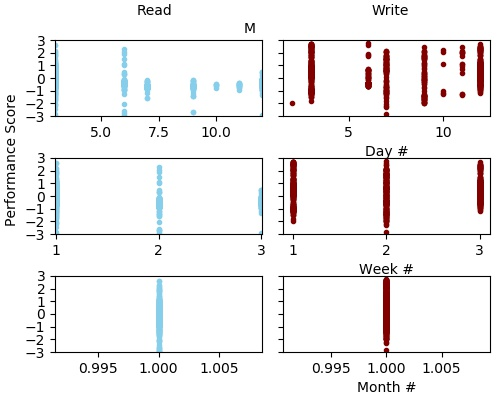
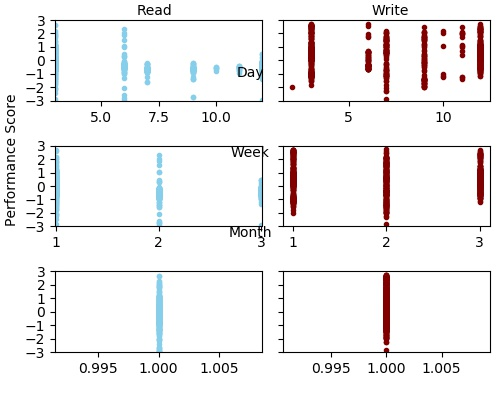
adjusting location of labels

diff --git a/example/simple_user.py b/example/simple_user.py
@@ -232,9 +232,11 @@ for app in top_apps:
         #axes[n][1].set_xticks(np.arange(min(x),max(x)+1,1))
         #axes[n][1].set_xlim([np.min(x), np.max(x)])
         #axes[n][1].set_title(op)
-        axes[n][1].set_xlabel("%s #"%x_axis)
-    fig.subplots_adjust(left=0.11, bottom=0.12, right=.98, top=.90, wspace=0.1, hspace=0.55)
-    fig.text(0.5, 0.91, x_axis[0], ha='center', va='bottom')
+        #axes[n][1].set_xlabel("%s #"%x_axis)
+    fig.subplots_adjust(left=0.11, bottom=0.12, right=.98, top=.95, wspace=0.1, hspace=0.55)
+    fig.text(0.5, 0.80, x_axes[0], ha='center', va='bottom')
+    fig.text(0.5, 0.60, x_axes[1], ha='center', va='bottom')
+    fig.text(0.5, 0.40, x_axes[2], ha='center', va='bottom')
     fig.text(0.01, 0.6, 'Performance Score', ha='left', va='center', rotation=90)
     fig.text(0.31, 0.99, 'Read', ha='center', va='top')
     fig.text(0.78, 0.99, 'Write', ha='center', va='top')
